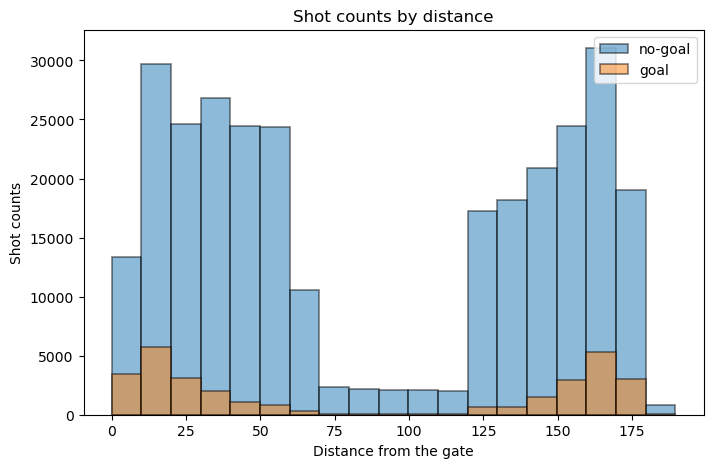
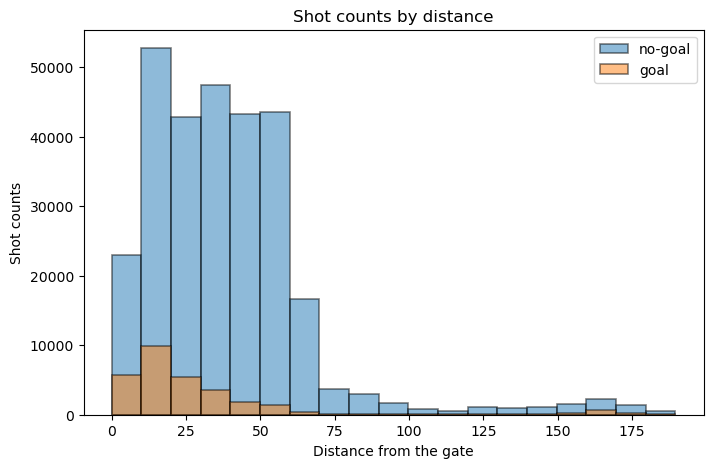
update blog according to the modifications

diff --git a/Milestone2/blog/_posts/2023-11-05-milestone-2.md b/Milestone2/blog/_posts/2023-11-05-milestone-2.md
@@ -25,15 +25,15 @@ As we can see from the chart, although the number of no-goals is significantly h
 
 ![fe_q1_1](../images/m2_fe1_q1_1.png)
 
-From the image we can see that the distribution roughly shows a U-shaped distribution with a low centre and two high ends. From the distribution we can guess that due to the large number of people gathered in the middle of the field during the game, it might be difficult to score from this distance, so most of the time the athletes did not perform the shooting action at this distance.
+From the graph we can see that shot counts are high at [0,50] but decrease when the distance increases. This is very understandable, because the closer the distance, the easier it is to goal. But the shot counts are also lower at [0,10], due to the fact that it's too close to the gate, and has probably been intercepted by an opposing player before that.
 
 ![fe_q1_2](../images/m2_fe1_q1_2.png)
 
-From the image we can see that shot counts show a decreasing trend with increasing angle. This indicates that most of the athletes tend to shoot from the front rather than from a more oblique angle.
+From the image we can see that shot counts show a decreasing trend with increasing angle. This indicates that most of the athletes tend to shoot from the front rather than from a more oblique angle. This is also in line with our common sense: more oblique angles tend to be harder to get a goal.
 
 ![fe_q1_3](../images/m2_fe1_q1_3.png)
 
-From the image we can see that the shot counts have a significant density when the distance is far and the angle is close to 0. From this we can guess that many fast counterattacks (i.e. shots on the opponent's net in front of their own net) took place in the actual match.
+From the image we can see that the shot counts have a significant density when the distance is close and the angle is close to 0. This is also in line with common sense: shots tend to be concentrated closer to the front of the net.
 
 ### <strong>Question 2</strong>:
 
@@ -41,7 +41,7 @@ In this question instead of histograms, we chose bar charts for plotting. Becaus
 
 ![fe_q2_1](../images/m2_fe1_q2_1.png)
 
-From the image we can see that the distribution roughly shows a U-shaped distribution with a low centre and two high ends. The higher goal rate at closer distances is very understandable, and the lower goal-scoring rate at mid-distance somehow confirms our suspicion in question 1 that there is a large number of players gathered in the middle of the court, which makes it less easy to goal. The high goal rate at longer distances may be due to quick counter-attacks, where the opposing players have no time to react.
+We can see from the graph that the distribution is roughly "U" shaped with a low centre and high ends. The higher goal rate from close range is well understood, whereas the lower goal rate from mid-range may be due to a large number of players congregating in the centre of the pitch, which makes scoring goals less easy. The high rate of goals from further distances may be due to quick counter-attacks where the opposing players have no time to react.
 
 ![fe_q2_2](../images/m2_fe1_q2_2.png)
 
@@ -52,7 +52,7 @@ From the image we can see that the goal rate is higher when the angle is close t
 ![fe_q3](../images/m2_fe1_q3.png)
 
 From the image we can see that the empty net stays at a very low level no matter what the shot distance is. This shows that in most cases the goalkeepers of both teams stay in front of their own net.<br>
-Our domain knowledge is that "it is incredibly rare to score a non-empty net goal on the opposing team from within your defensive zone". But from the image we can see that there are very many non-empty net goals scored from long distance, which is against our domain knowledge and suggests that there may be anomalous data.
+According to our domain knowledge, "it is very rare to score a non-open goal to an opposing team in their own defensive zone". However, we can see from the picture that there are some non-empty long range goals in the [150,175] zone, which contradicts our domain knowledge and suggests that there may be anomalous data.
 
 
 ## <strong>3. Baseline Models</strong>
